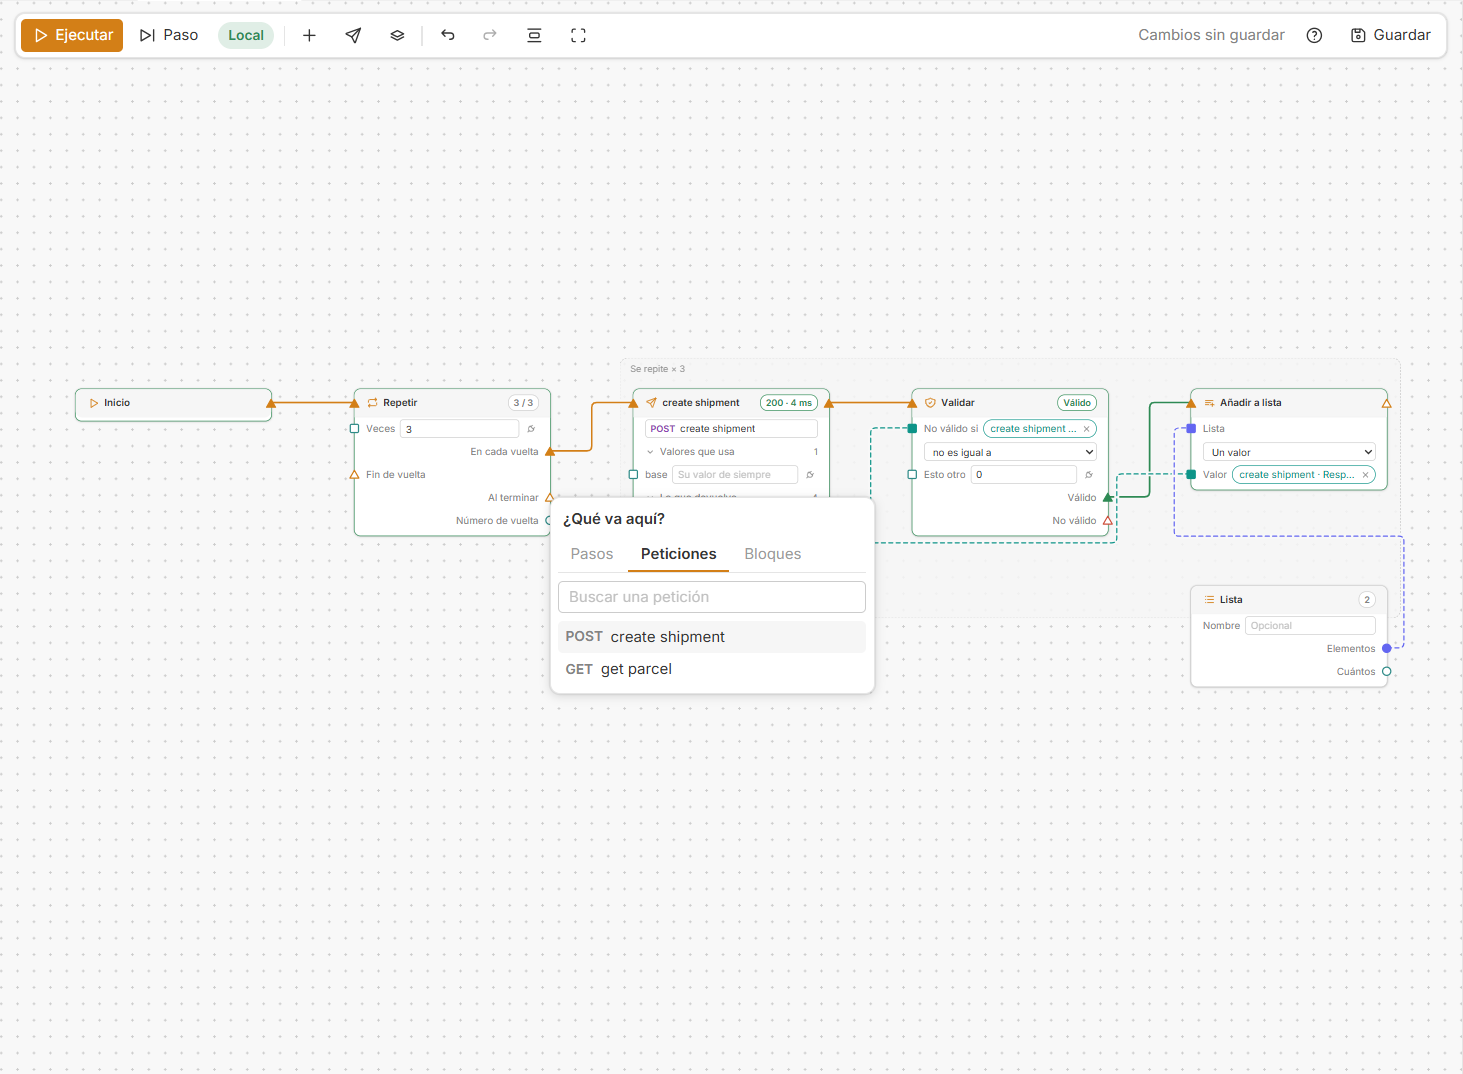
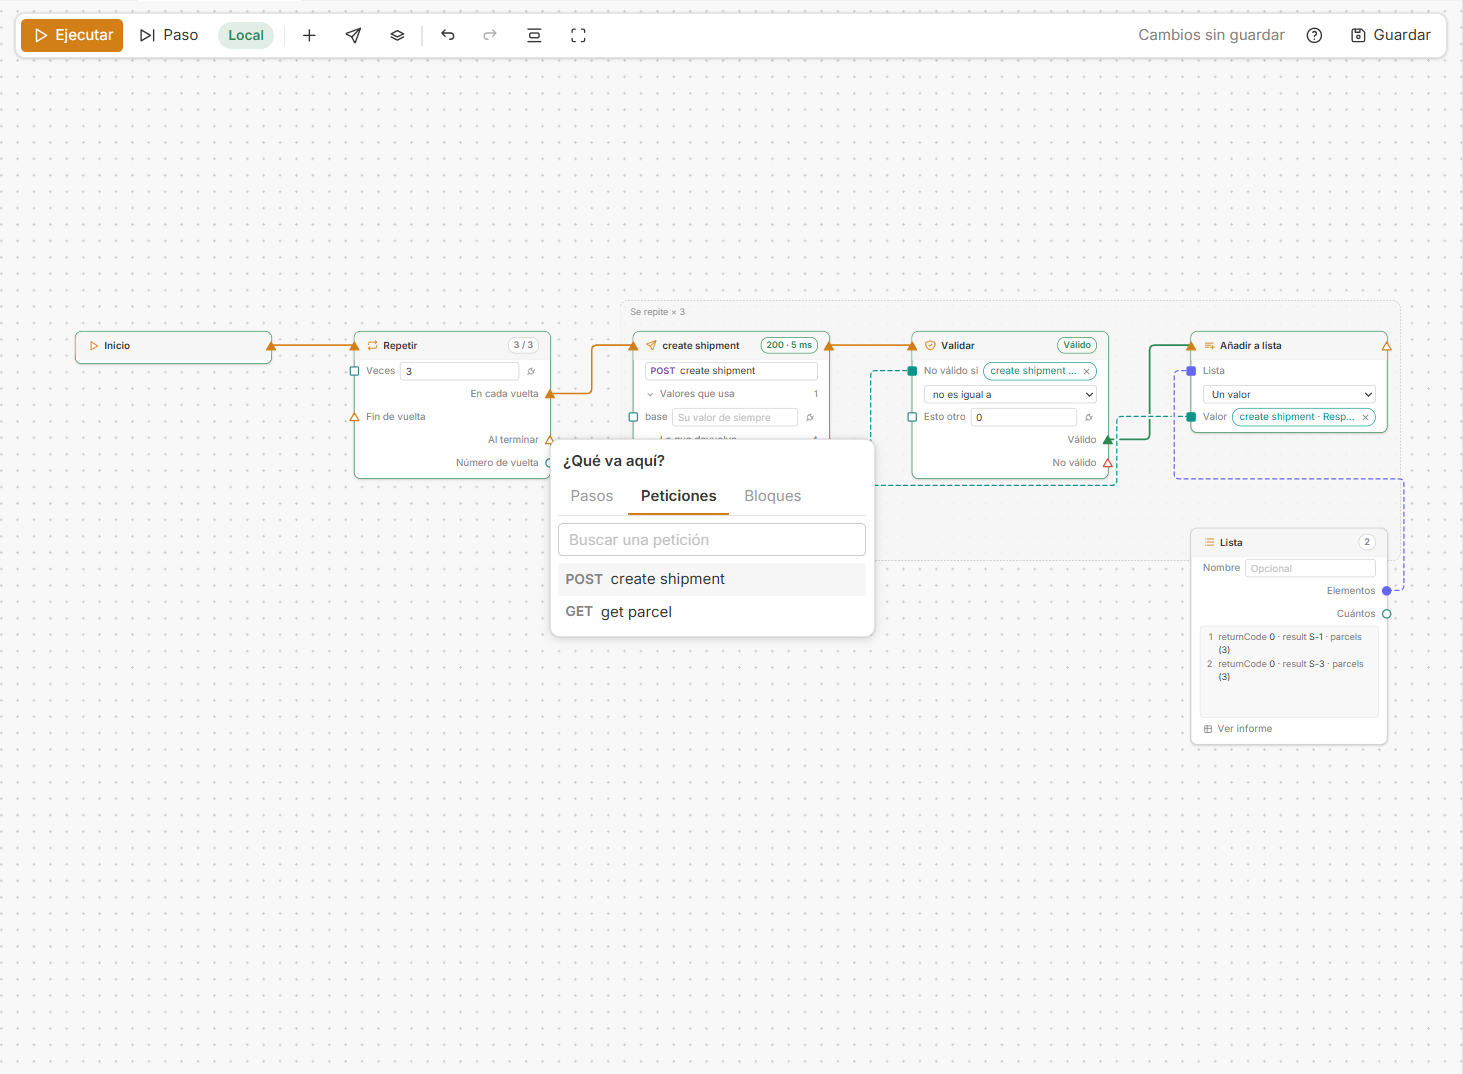
docs(flows): informe de la lista, texto o valor de otro paso y capturas al día

diff --git a/fork/docs/funciones/flows.md b/fork/docs/funciones/flows.md
@@ -29,7 +29,7 @@ Para empezar a usarla sin leer todo esto está la [guía rápida](flows-guia.md)
 | Repeat | Repite lo que cuelga de *On each round* las veces indicadas. Lo que repite queda dentro de un marco. La vuelta termina cuando el camino se acaba o cuando llega a *End of round* |
 | For each item | Como Repeat, pero da una vuelta por cada elemento de una lista: una lista del flow o un campo de una respuesta que sea una lista. En cada vuelta entrega el elemento (*Item*), los campos suyos que se añadan con *Add a field* y el número de vuelta |
 | Leave loop | Termina el bucle en el que está, aunque le queden vueltas, y el flow sigue por su *When finished*. Sirve para reintentar hasta que algo funcione o esperar a que un proceso termine. Fuera de un bucle lleva un aviso y el flow no se ejecuta |
-| List y Add to list | Una lista que se va llenando, con un valor o con varios campos por vuelta. Se puede usar después del bucle |
+| List y Add to list | Una lista que se va llenando, con un valor o con varios campos por vuelta. Se puede usar después del bucle. El paso **List** enseña dentro lo que va guardando y abre su informe (ver [El informe de una lista](#el-informe-de-una-lista)) |
 | Set variable | Guarda un valor con un nombre para usarlo en pasos posteriores como `{{nombre}}` |
 | Wait | Espera unos segundos |
 | Note | Escribe un mensaje en la salida y sigue |
@@ -50,6 +50,26 @@ La lista de **Add a field**, y la de valores de otros pasos, ofrece los campos d
 Lo que no aparece se puede escribir a mano, también como en los scripts: `pedidos[2].id`.
 
 **Listas.** Un campo que pasa por una lista lee, si no se dice otra cosa, el primer elemento. En su fila sale una ficha con el elemento que lee (`#1`); al pulsarla se elige **The first item**, **The last item** o se escribe una posición contando desde 1. Una lista entera se entrega tal cual (`all`) y también se puede pedir uno solo de sus elementos. Para pasar por todos está el paso **For each item**.
+
+### Texto o valor de otro paso
+
+Lo que se escribe en la caja de una entrada es texto tal cual: escribir `token` guarda la palabra, no el campo. Para usar un valor de otro paso hay que unirlo, y entonces la caja se convierte en una ficha con el paso del que viene. Como lo natural es escribir el nombre, mientras se escribe sale debajo una lista con los valores de otros pasos que se llaman así; se elige con el ratón o, si el nombre coincide entero, con `Enter`.
+
+Al cambiar un ajuste que quita entradas o salidas de un paso (pasar **Add to list** de *One value* a *Several fields*, por ejemplo), los cables que llegaban a ellas se quitan también.
+
+### El informe de una lista
+
+El paso **List** tiene dentro un recuadro con lo que guarda después de la última ejecución, una línea por elemento, que se va llenando mientras el flow se ejecuta. El texto se puede seleccionar y copiar.
+
+**View report** abre lo mismo como una tabla para leer: una fila por elemento y una columna por campo. Un campo que es a su vez una lista (los bultos de un envío) se abre en tantas filas como tenga, y los campos de alrededor las abarcan, de modo que cada elemento queda junto a lo suyo.
+
+| Botón | Qué hace |
+|---|---|
+| **Copy table** | Copia la tabla para pegarla en una hoja de cálculo, un correo o un documento |
+| **Copy as JSON** | Copia los datos tal como están en la lista |
+| **Save as HTML** | Guarda el informe como una página suelta, con su título, el flow, la fecha y la tabla |
+
+Lo que enseña es lo de la última ejecución y vive mientras la app está abierta; no se guarda en la colección.
 
 ### Los bloques
 
@@ -143,6 +163,7 @@ Todo el código está en `packages/bruno-app/src/components/fork/Flows/` y en `p
 | `fields/` | Qué campos tiene la respuesta de una petición antes de enviarla: rutas y posiciones en listas (`paths.js`), lectura de documentos OpenAPI (`spec.js`), lectura de los scripts como texto (`script.js`), lo recordado entre sesiones (`memory.js`) y el observador que anota cada respuesta que llega (`watch.js`, instalado desde `ForkRoot`) |
 | `FlowCanvas/` | El componente que junta lo anterior: selección, arrastres, zoom, teclado y soltar desde la barra lateral |
 | `blocks/` | Los bloques: el catálogo de los que trae Michi (`catalog.js`), cómo se montan, se insertan y se guardan los propios (`building.js`), la guía y cómo sabe que un punto está hecho (`guide.js`), los bloques de cada colección (`store.js`) y los componentes `Gallery`, `GuidePanel`, `HelpPanel` y `SaveBlockModal` |
+| `report/` | El informe de una lista: de los datos a filas y columnas (`table.js`), a texto, tabla y página HTML (`export.js`), y la ventana `ReportModal` |
 | `run/` | La ejecución en la app: `host.js` envía cada petición con `sendNetworkRequest`, como hace Bruno; `controller.js` pide la confirmación de entorno sensible y traduce los eventos del motor; `session.js` guarda el estado de cada ejecución y la salida; `OutputPanel/` la pinta |
 
 - Un flow es un JSON con `nodes` (tipo, posición y ajustes) y `edges` (de qué puerto a qué puerto, y los codos si se les ha dado forma).

diff --git a/fork/docs/funciones/flows-guia.md b/fork/docs/funciones/flows-guia.md
@@ -93,6 +93,10 @@ Es lo que más se hace: el token del login, el id de lo que se acaba de crear.
 
 El paso enseña de dónde toma el valor en una ficha, y se quita con su aspa.
 
+> **Ojo:** lo que escribes dentro de la caja es texto tal cual. Si escribes `token`, el paso usa la palabra «token», no el campo. Mientras escribes, Michi te ofrece debajo los valores que se llaman así: elígelo ahí, o pulsa `Intro` si el nombre coincide, y la caja se convierte en ficha.
+
+![Al escribir el nombre de un campo, se ofrece conectarlo](../img/flows-sugerencia.png)
+
 ![Valores que pasan de un paso a otro](../img/flows-valores.png)
 
 ## Coger un dato concreto de la respuesta
@@ -125,6 +129,22 @@ Hay servicios que contestan 200 y dentro traen un código que dice que no se hiz
 Dentro de un **Repetir**, si de **No válido** no cuelga nada, esa vuelta se acaba ahí y empieza la siguiente: la respuesta mala no se guarda y el flow sigue.
 
 ![Una ejecución en la que Validar deja fuera la respuesta que traía un error](../img/flows-validar.png)
+
+## Ver y sacar lo que se ha generado
+
+Cuando un flow guarda cosas en una **Lista** (los envíos creados, por ejemplo), la propia caja de la Lista enseña lo que va entrando, una línea por elemento, mientras se ejecuta.
+
+Para verlo bien y llevártelo, pulsa **Ver informe** en la Lista. Sale una tabla con una fila por elemento; si un elemento tiene dentro una lista, como los bultos de un envío, salen debajo, cada uno en su fila.
+
+![El informe de una lista, con cada envío y sus bultos](../img/flows-informe.png)
+
+| Botón | Para qué |
+|---|---|
+| **Copiar tabla** | Pegarla en Excel, en un correo o en Teams |
+| **Copiar como JSON** | Llevarte los datos tal cual |
+| **Guardar como HTML** | Tener el informe en un fichero para guardarlo o enviarlo |
+
+El informe es de la última ejecución. Si cierras Michi se pierde, así que guárdalo o cópialo antes.
 
 ## Ejecutar
 
